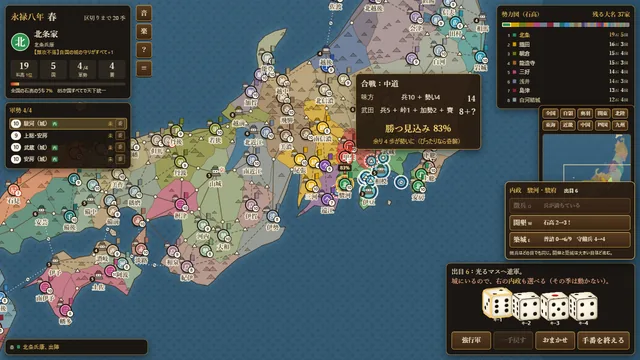
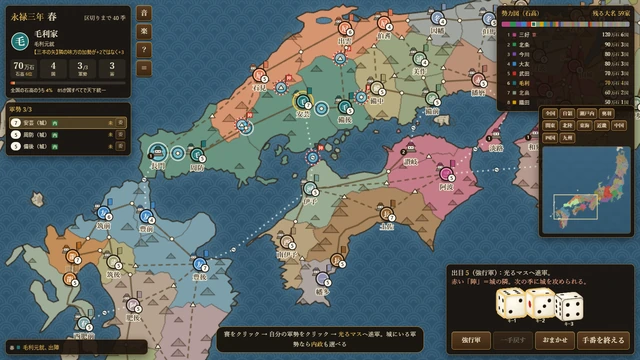
賽駆け 天下の一覧画像を瀬戸内のプレイ画面に更新

diff --git a/assets/js/beyond.js b/assets/js/beyond.js
@@ -62,7 +62,7 @@ window.OPW_BEYOND = [
     changelog: 'https://github.com/shioa2006-game/ONE_PROMPT_WORLDS/blob/main/beyond1/CHANGELOG.md',
     thumbnail: 'assets/thumbs/beyond1.webp',
     thumbnailSmall: 'assets/thumbs/beyond1-640.webp',
-    thumbnailAlt: '「賽駆け 天下」のプレイ画面。大名ごとに 色分けされた 四国から奥羽までの 日本地図で、北条家の軍勢が 進める マスが 水色に光り、武田軍との 合戦の 勝つ見込み 83% と、駿府城での 内政（徴兵・開墾・築城）の 小窓が 表示されている。右下には 振った4つの サイコロ。',
+    thumbnailAlt: '瀬戸内海を挟んで中国・四国の城と軍勢が並ぶ。毛利家が安芸の軍勢に二つの賽を割り当て、進軍できるマスが水色に光っている。',
     controls: 'マウス',
     ai: 'Claude Opus 5.5',
     accent: '#e3b955'
